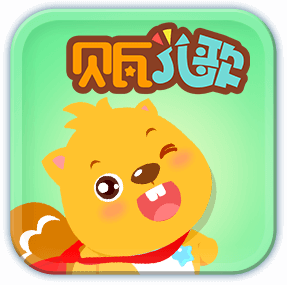
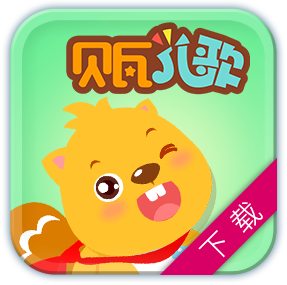
merger version

Changed region(s): [[0.5575, 0.5614, 0.9756, 0.9825]]

diff --git a/5.5/js/framework.js b/5.5/js/framework.js
@@ -128,55 +128,59 @@ var app = {
             coocaaosapi.checkAPK(       	
             	apkNode[0].apkname,
             	function(message) {
-            		document.getElementById('down1').src = app.rel_html_imgpath(__uri("../images/yianzhuang.png"));					
+            		document.getElementById('apk1').src = app.rel_html_imgpath(__uri("../images/beiwaas.png"));
             	},
             	function(error) {
-            		document.getElementById('down1').src = app.rel_html_imgpath(__uri("../images/Down.png"));
+            		// document.getElementById('apk1').src = app.rel_html_imgpath(__uri("../images/yianzhuang.png"));					
+            		
             	}
             	); 
             coocaaosapi.checkAPK(       	
             	apkNode[1].apkname,
             	function(message) {
-            		document.getElementById('down2').src = app.rel_html_imgpath(__uri("../images/yianzhuang.png"));					
+            		document.getElementById('apk2').src = app.rel_html_imgpath(__uri("../images/guoguoas.png"));
             	},
             	function(error) {
-            		document.getElementById('down2').src = app.rel_html_imgpath(__uri("../images/Down.png"));
+            		// document.getElementById('apk2').src = app.rel_html_imgpath(__uri("../images/yianzhuang.png"));					            		           		
             	}
             	); 
             coocaaosapi.checkAPK(       	
             	apkNode[2].apkname,
             	function(message) {
-            		document.getElementById('down3').src = app.rel_html_imgpath(__uri("../images/yianzhuang.png"));					
+            			document.getElementById('apk3').src = app.rel_html_imgpath(__uri("../images/kuaileas.png"));				
             	},
             	function(error) {
-            		document.getElementById('down3').src = app.rel_html_imgpath(__uri("../images/Down.png"));
+            		
+            		// document.getElementById('apk3').src = app.rel_html_imgpath(__uri("../images/yianzhuang.png"));
             	}
             	); 
             coocaaosapi.checkAPK(       	
             	apkNode[3].apkname,
             	function(message) {
-            		document.getElementById('down4').src = app.rel_html_imgpath(__uri("../images/yianzhuang.png"));					
+            		document.getElementById('apk4').src = app.rel_html_imgpath(__uri("../images/caizhias.png"));
+            		// document.getElementById('apk4').src = app.rel_html_imgpath(__uri("../images/yianzhuang.png"));					
             	},
-            	function(error) {
-            		document.getElementById('down4').src = app.rel_html_imgpath(__uri("../images/Down.png"));
+            	function(error) {          		
             	}
             	); 
             coocaaosapi.checkAPK(       	
             	apkNode[4].apkname,
             	function(message) {
-            		document.getElementById('down5').src = app.rel_html_imgpath(__uri("../images/yianzhuang.png"));					
+            		document.getElementById('apk5').src = app.rel_html_imgpath(__uri("../images/baiyinas.png"));
+            		// document.getElementById('apk5').src = app.rel_html_imgpath(__uri("../images/yianzhuang.png"));					
             	},
             	function(error) {
-            		document.getElementById('down5').src = app.rel_html_imgpath(__uri("../images/Down.png"));
+            		
             	}
             	); 
             coocaaosapi.checkAPK(       	
             	apkNode[5].apkname,
             	function(message) {
-            		document.getElementById('down6').src = app.rel_html_imgpath(__uri("../images/yianzhuang.png"));					
+            		document.getElementById('apk6').src = app.rel_html_imgpath(__uri("../images/jianshenas.png"));
+            		// document.getElementById('down6').src = app.rel_html_imgpath(__uri("../images/yianzhuang.png"));					
             	},
             	function(error) {
-            		document.getElementById('down6').src = app.rel_html_imgpath(__uri("../images/Down.png"));
+            		
             	}
             	); 
             console.log("---------startcheck-------");

diff --git a/5.5/index.html b/5.5/index.html
@@ -30,32 +30,26 @@
 				<div id="apkIcon">
 					<button class="apkButton" id="apkbutt1" onfocus="buttFocus(this)" onblur="buttBlur(this)">
 					<img src="images/beiwa.png" class="apkImg" id="apk1" apkName="com.slanissue.tv.erge">
-					<img src="images/Down.png" class="downIcon" id="down1">
 					<img src="images/iconguangbiao.png" class="iconguangbiao" id="iconguangbiao1">
 				</button>
 					<button class="apkButton" id="apkbutt2" onfocus="buttFocus(this)" onblur="buttBlur(this)">
 					<img src="images/guoguo.png" class="apkImg" id="apk2" apkName="com.lutongnet.ott.ggly">
-					<img src="images/Down.png" class="downIcon" id="down2">
 					<img src="images/iconguangbiao.png" class="iconguangbiao" id="iconguangbiao2">
 				</button>
 					<button class="apkButton" id="apkbutt3" onfocus="buttFocus(this)" onblur="buttBlur(this)">
 					<img src="images/kuaile.png" class="apkImg" id="apk3" apkName="com.edufound.ott">
-					<img src="images/Down.png" class="downIcon" id="down3">
 					<img src="images/iconguangbiao.png" class="iconguangbiao" id="iconguangbiao3">
 				</button>
 					<button class="apkButton" id="apkbutt4" onfocus="buttFocus(this)" onblur="buttBlur(this)">
 					<img src="images/caizhi.png" class="apkImg" id="apk4" apkName="cn.cheerz.icw">
-					<img src="images/Down.png" class="downIcon" id="down4">
 					<img src="images/iconguangbiao.png" class="iconguangbiao" id="iconguangbiao4">
 				</button>
 					<button class="apkButton" id="apkbutt5" onfocus="buttFocus(this)" onblur="buttBlur(this)">
 					<img src="images/baiyin.png" class="apkImg" id="apk5" apkName="com.westingware.androidtv">
-					<img src="images/Down.png" class="downIcon" id="down5">
 					<img src="images/iconguangbiao.png" class="iconguangbiao" id="iconguangbiao5">
 				</button>
 					<button class="apkButton" id="apkbutt6" onfocus="buttFocus(this)" onblur="buttBlur(this)">
 					<img src="images/jianshen.png" class="apkImg" id="apk6" apkName="com.lutongnet.ott.health">
-					<img src="images/Down.png" class="downIcon" id="down6">
 					<img src="images/iconguangbiao.png" class="iconguangbiao" id="iconguangbiao6">
 				</button>
 				</div>

diff --git a/5.5/js/DrawSystem.js b/5.5/js/DrawSystem.js
@@ -1137,14 +1137,14 @@ function choujiangmusic() {
 }
 
 function buttFocus(obj) {
-	var str = obj.children[2];
+	var str = obj.children[1];
 	var id = str.getAttribute("id");
 	document.getElementById(id).style.display = "block";
 
 }
 
 function buttBlur(obj) {
-	var str = obj.children[2];
+	var str = obj.children[1];
 	var id = str.getAttribute("id");
 	document.getElementById(id).style.display="none";
 	

diff --git a/5.5/css/DrawSystem.css b/5.5/css/DrawSystem.css
@@ -1106,7 +1106,7 @@ body {
 .downIcon {
 	width: 90%;
 	height: 90%;
-	margin-top: -90%;
+	margin-top: -89%;
 	/*margin-left: 35%;*/
 }
 
